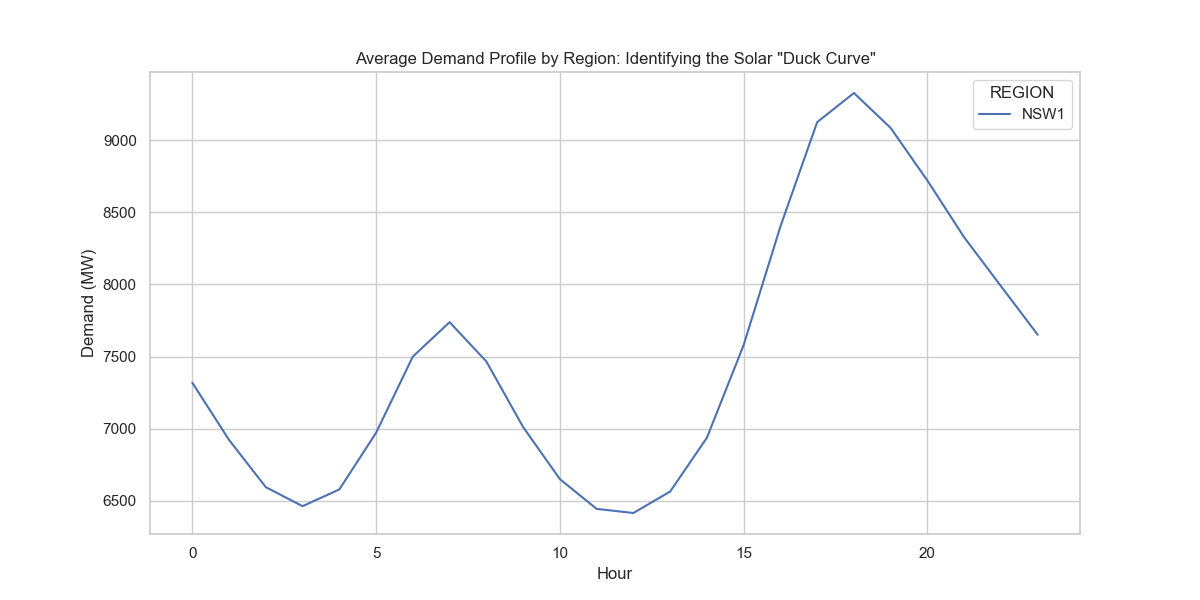
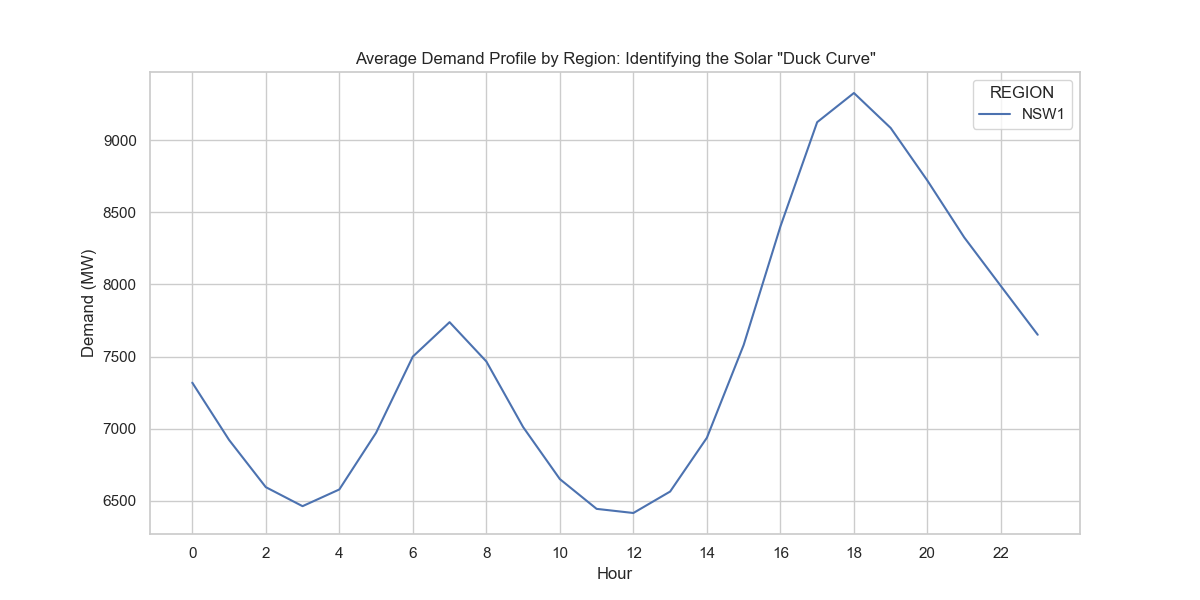
add plots

Changed region(s): [[0.5858, 0.9, 0.6783, 0.93], [0.7092, 0.9, 0.74, 0.93], [0.5242, 0.9, 0.555, 0.93]]

diff --git a/energy_compliance_project/src/02_EDA.py b/energy_compliance_project/src/02_EDA.py
@@ -12,24 +12,40 @@ print(df.describe())
 sns.set_theme(style="whitegrid")
 plt.rcParams['figure.figsize'] = [12,6]
 
-# --- PLOT 1: THE DUCK CURVE ---
+# --- THE DUCK CURVE ---
 plt.figure()
 sns.lineplot(data=df, x='Hour', y='TOTALDEMAND', hue='REGION', errorbar=None)
 plt.title('Average Demand Profile by Region: Identifying the Solar "Duck Curve"')
 plt.ylabel('Demand (MW)')
+plt.xticks(range(0, 24, 2))
 plt.savefig('plots/duck_curve.png')
 
-# --- PLOT 2: PRICE VOLATILITY ---
+# --- PRICE VOLATILITY ---
 plt.figure()
 # We filter RRP between -200 and 500 just to see the main distribution clearly
 sns.boxplot(data=df, x='Hour', y='RRP', showfliers=False) 
 plt.title('Hourly Price Distribution: Identifying Market Instability Windows')
 plt.savefig('plots/price_volatility.png')
 
-# --- PLOT 3: SEASONAL IMPACT ---
+# --- SEASONAL IMPACT ---
 # Create a pivot table for the heatmap
 pivot = df.groupby(['Hour', 'Month'])['Is_Negative_Price'].mean().unstack()
 plt.figure(figsize=(10, 8))
 sns.heatmap(pivot, cmap='YlOrRd', annot=False)
 plt.title('Heatmap of Negative Price Frequency (Solar Over-saturation Risk)')
 plt.savefig('plots/risk_heatmap.png')
+
+
+# --- Correlation Heatmap ---
+plt.figure(figsize=(10, 8))
+corr = df[['TOTALDEMAND', 'RRP', 'Hour', 'Month', 'DayOfWeek', 'Is_Negative_Price']].corr()
+sns.heatmap(corr, annot=True, cmap='coolwarm', fmt=".2f")
+plt.title('Feature Correlation Matrix: Identifying Drivers of Grid Stress')
+plt.savefig('plots/correlation_heatmap.png')
+
+# --- Weekday vs Weekend Profile ---
+df['Is_Weekend'] = df['DayOfWeek'].isin([5, 6])
+plt.figure()
+sns.lineplot(data=df, x='Hour', y='TOTALDEMAND', hue='Is_Weekend', errorbar=None)
+plt.title('Demand Profiles: Weekday vs. Weekend (Solar Penetration Impact)')
+plt.savefig('plots/weekday_weekend_comparison.png')
